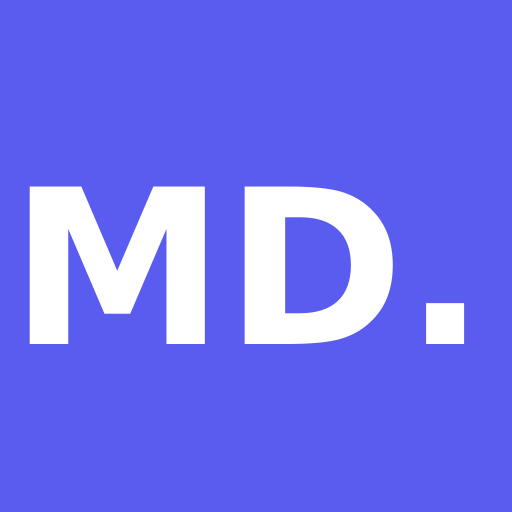
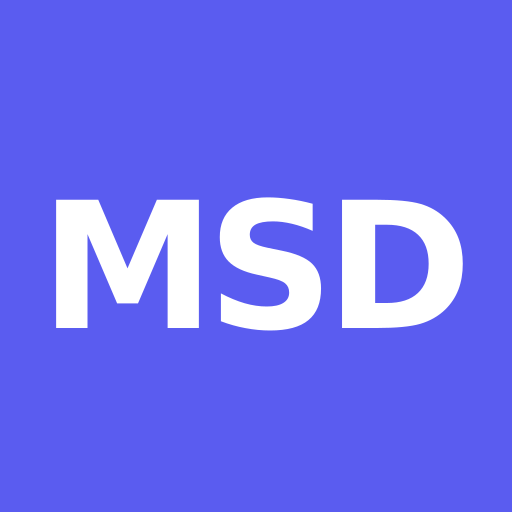
Affiche le nom complet Mohamed Solomani Doumbia
Titre, accueil, métadonnées, logo et pied de page (MSD.), icônes et
image d'aperçu des partages.

Claude-Session: https://claude.ai/code/session_01SLQQvC6wSwLjkj3dk6TRUa

Changed region(s): [[0.0312, 0.3438, 0.9062, 0.6875]]

diff --git a/index.html b/index.html
@@ -3,20 +3,20 @@
 <head>
   <meta charset="UTF-8" />
   <meta name="viewport" content="width=device-width, initial-scale=1.0" />
-  <title>Mohamed Doumbia — Logiciels de gestion & solutions numériques</title>
+  <title>Mohamed Solomani Doumbia — Logiciels de gestion & solutions numériques</title>
   <meta name="description" content="Mohamed Solomani Doumbia, développeur en informatique de gestion (Master I MIAGE) à Bamako : logiciels de gestion, sites web, applications et accompagnement numérique." />
-  <meta property="og:title" content="Mohamed Doumbia — Logiciels de gestion & solutions numériques" />
+  <meta property="og:title" content="Mohamed Solomani Doumbia — Logiciels de gestion & solutions numériques" />
   <meta property="og:description" content="Logiciels de gestion, sites web, applications et accompagnement numérique, à Bamako." />
   <meta name="author" content="Mohamed Solomani Doumbia" />
   <link rel="canonical" href="https://viem0s.github.io/" />
   <meta property="og:type" content="website" />
   <meta property="og:locale" content="fr_FR" />
   <meta property="og:url" content="https://viem0s.github.io/" />
-  <meta property="og:site_name" content="Mohamed Doumbia" />
+  <meta property="og:site_name" content="Mohamed Solomani Doumbia" />
   <meta property="og:image" content="https://viem0s.github.io/assets/og-image.jpg" />
   <meta property="og:image:width" content="1200" />
   <meta property="og:image:height" content="630" />
-  <meta property="og:image:alt" content="Mohamed Doumbia — Logiciels de gestion, sites web, applications et accompagnement numérique" />
+  <meta property="og:image:alt" content="Mohamed Solomani Doumbia — Logiciels de gestion, sites web, applications et accompagnement numérique" />
   <meta name="twitter:card" content="summary_large_image" />
   <meta name="theme-color" content="#ffffff" />
   <link rel="icon" type="image/svg+xml" href="assets/favicon.svg" />
@@ -136,7 +136,7 @@
     .hero { display: grid; grid-template-columns: 1.55fr 1fr; min-height: calc(100vh - 72px); }
     .hero-text { padding: 72px 48px 64px max(32px, calc((100vw - 1280px) / 2)); display: flex; flex-direction: column; justify-content: center; }
     .hero .tag { font: 400 14px var(--mono); color: var(--grey); margin: 0 0 28px; }
-    .hero h1 { font-size: clamp(64px, 9.6vw, 156px); line-height: .92; font-weight: 600; letter-spacing: -0.045em; }
+    .hero h1 { font-size: clamp(58px, 8.4vw, 136px); line-height: .92; font-weight: 600; letter-spacing: -0.045em; }
     .hero .lead { font-size: clamp(22px, 2.3vw, 34px); line-height: 1.3; font-weight: 400; margin: 44px 0 28px; max-width: 20em; }
     .hero .offer { list-style: none; margin: 0 0 44px; padding: 0; display: flex; flex-wrap: wrap; gap: 8px; font: 400 13px var(--mono); }
     .hero .offer li { border: 1px solid var(--line); padding: 5px 12px; border-radius: 999px; }
@@ -331,7 +331,7 @@
 
   <header class="nav">
     <div class="wrap">
-      <a class="logo" href="#" aria-label="Mohamed Doumbia, retour en haut">MD.</a>
+      <a class="logo" href="#" aria-label="Mohamed Solomani Doumbia, retour en haut">MSD.</a>
       <nav aria-label="Navigation principale">
         <a href="#apropos">À propos</a>
         <a href="#services">Services</a>
@@ -360,7 +360,7 @@
     <section class="hero">
       <div class="hero-text">
         <p class="tag"><span class="dot" aria-hidden="true"></span>Bamako, Mali — Disponible dès le 13 octobre 2026</p>
-        <h1>Mohamed Doumbia</h1>
+        <h1>Mohamed<br />Solomani<br />Doumbia</h1>
         <p class="lead">Des logiciels de gestion et des solutions numériques qui font gagner du temps aux entreprises.</p>
         <ul class="offer" aria-label="Services">
           <li>Logiciels de gestion</li><li>Sites web</li><li>Applications</li><li>Tableaux de bord</li><li>Conseil</li>
@@ -593,7 +593,7 @@
   </main>
 
   <footer>
-    <div class="mark">MD.</div>
+    <div class="mark">MSD.</div>
     <div class="links">
       <a href="mailto:dmohamedsolomani@gmail.com">E-mail</a>
       <a href="#services">Services</a>

diff --git a/404.html b/404.html
@@ -3,7 +3,7 @@
 <head>
   <meta charset="UTF-8" />
   <meta name="viewport" content="width=device-width, initial-scale=1.0" />
-  <title>Page introuvable — Mohamed Doumbia</title>
+  <title>Page introuvable — Mohamed Solomani Doumbia</title>
   <meta name="robots" content="noindex" />
   <link rel="icon" type="image/svg+xml" href="/assets/favicon.svg" />
   <link rel="preconnect" href="https://fonts.googleapis.com" />
